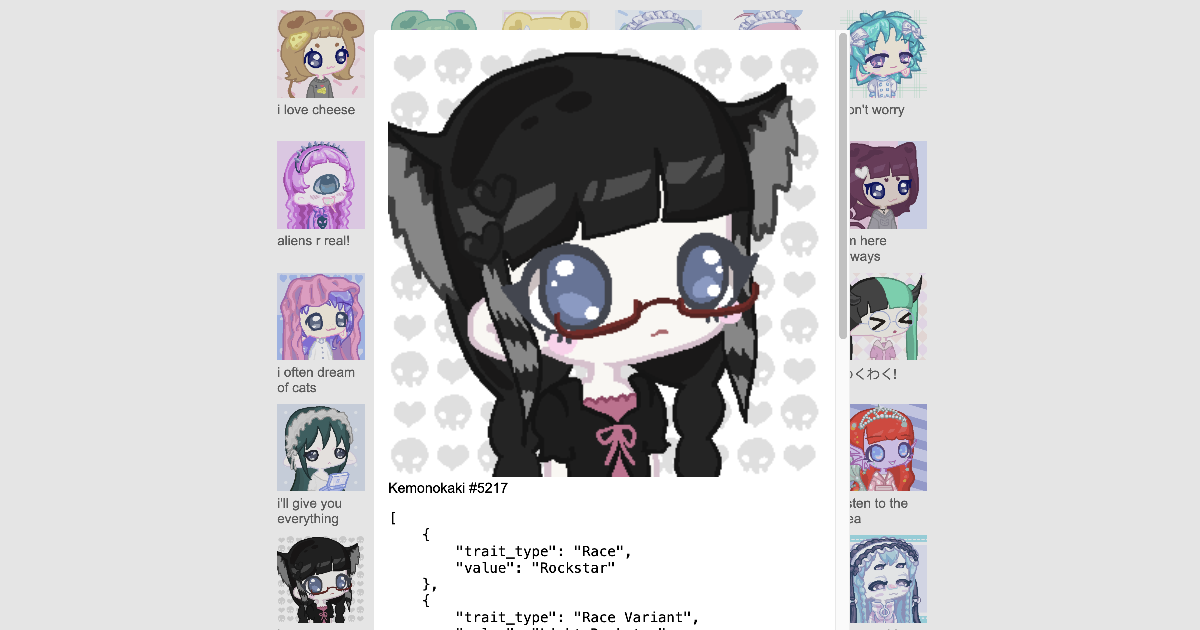
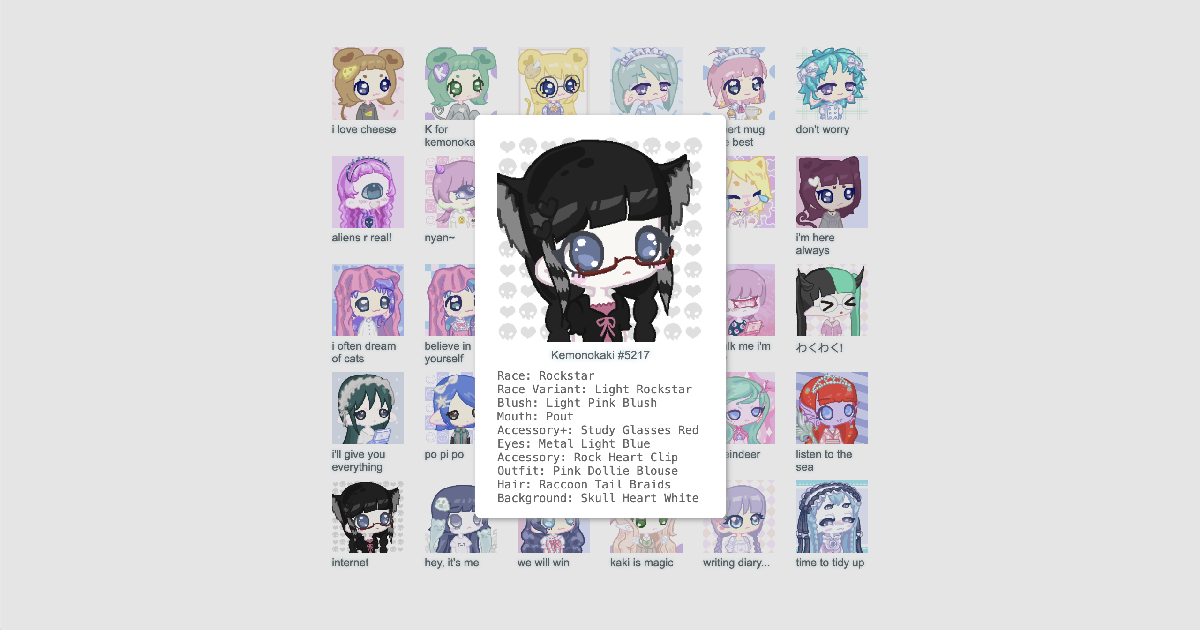
try do some RWD, optimize alignment, text dec.

diff --git a/script.js b/script.js
@@ -1,11 +1,12 @@
 const imgs = document.querySelectorAll("img");
 const dialog = document.querySelector("dialog");
+const dialog_div = document.querySelector("dialog div");
 let currentElementId = null;
 
 
 imgs.forEach(img => {
     img.addEventListener('click', function(event) {
-        dialog.innerHTML = "";
+        dialog_div.innerHTML = "";
         const img_url = img.src; 
         console.log(img_url);
         const numbers = img_url.match(/\d+/g);
@@ -24,21 +25,28 @@ imgs.forEach(img => {
             if (json.Error) {
               throw new Error(json.Error);
             }
-            
-            const attributes = json.nft.traits || json.nft.metadata?.attributes || [];
-            const cleanAttributes = attributes.map(attr => ({
-              trait_type: attr.trait_type,
-              value: attr.value
+
+          const attributes = json.nft.traits || json.nft.metadata?.attributes || [];
+          const cleanAttributes = attributes.map(attr => ({
+            trait_type: attr.trait_type,
+            value: attr.value
           }));
             
-            dialog_img.src = img.src;
-            dialog.prepend(dialog_img);
-            dialog.innerHTML += `<label for="img">Kemonokaki #${currentElementId}</label>
-            <pre>${JSON.stringify(cleanAttributes, null, 4)}</pre>`;
+          dialog_img.src = img.src;
+          dialog_div.prepend(dialog_img);
+
+          // Format attributes as readable text instead of JSON
+          const attributesText = cleanAttributes
+            .map(attr => `${attr.trait_type}: ${attr.value}`)
+            .join('\n');
+
+          dialog_div.innerHTML += `<label for="img">Kemonokaki #${currentElementId}</label>
+          <div style="font-family: monospace; white-space: pre-wrap; word-wrap: break-word;">${attributesText}</div>`;
           })
+
           .catch(err => {
             console.error(err);
-            dialog.innerHTML = `<p style="color: red;">Error loading NFT data: ${err.message}</p>`;
+            dialog_div.innerHTML = `<p style="color: red;">Error loading NFT data: ${err.message}</p>`;
           });
         
         dialog.addEventListener("click", e => {

diff --git a/style.css b/style.css
@@ -32,6 +32,7 @@ p {
   padding: 0;
   font-size: 1.2ch;
   color: #666666;
+  text-shadow: 0 0 3px lightblue;
 }
 
 .outer_container {
@@ -47,17 +48,54 @@ p {
   max-height: 99vh;
   width: min(100vw, 536px);
   overflow: auto;
+  display: flex;
+  justify-content: center
+
 }
 
 dialog {
-  width: 35vw;
-  height: 85vh;
+  width: 220px;
+  height: 360px;
   border-radius: 5px;
   border: none;
   outline: none;
   font-size: 0.7rem;
+  box-shadow: 2px 2px 5px 0px #999999;
+  padding-top: 20px;
+}
+
+dialog img {
+  display: block;
+  width: 200px;
+  height: 200px;
+}
+
+dialog div {
+  display: flex;
+  flex-direction: column;
+  align-items: center;
+}
+
+label {
+  color: #666666;
+  padding: 7px 0;
+  text-shadow: 0 0 5px lightblue;
+  font-weight: 500;
+}
+
+dialog div div {
+  align-self: flex-start;
+  padding-left: 10px;
+  color: #666666;
 }
 
 .container:hover {
   cursor: grab;
+}
+
+@media (max-width: 512px) {
+  .outer_container {
+    width: 250px;
+    padding-top: 20px;
+  }
 }

diff --git a/index.html b/index.html
@@ -151,6 +151,6 @@
         </div>
     </div>
   </div>
-  <dialog></dialog>
+  <dialog><div></div></dialog>
 </body>
 </html>
